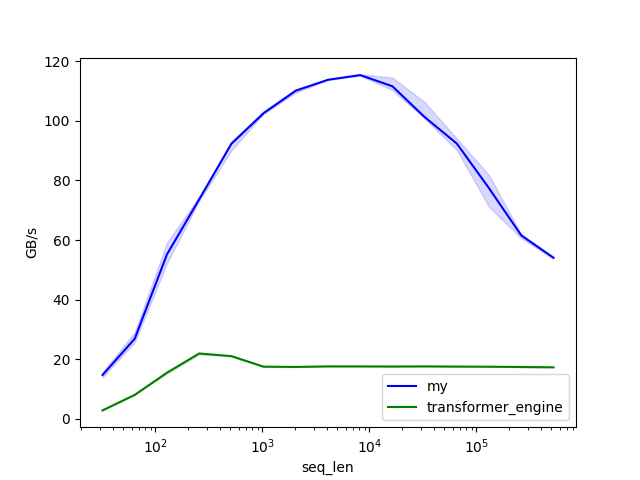
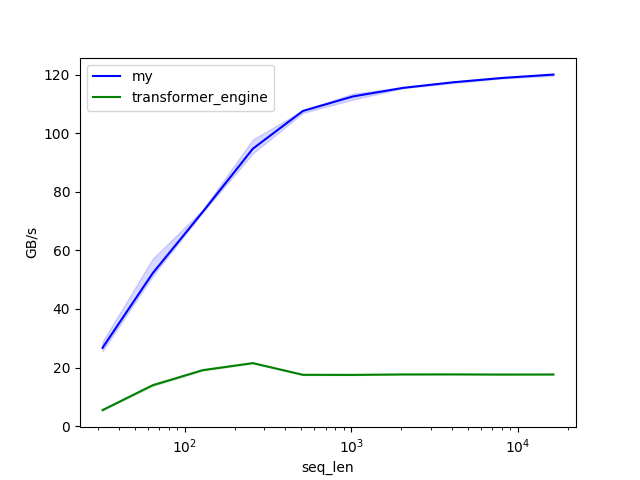
update perf

diff --git a/RoPE/perf.py b/RoPE/perf.py
@@ -9,7 +9,7 @@ import os
 @triton.testing.perf_report(
     triton.testing.Benchmark(
         x_names=['seq_len'],
-        x_vals=[2**i for i in range(5, 20, 1)],
+        x_vals=[2**i for i in range(5, 15, 1)],
         x_log=True,                                 # logarithmic in x axis
         line_arg = 'provider', 
         line_vals = ['my', 'base'],
@@ -17,7 +17,7 @@ import os
         styles=[('blue', '-'), ('green','-')],
         ylabel = 'GB/s',
         plot_name = 'RoPE forward() perf',
-        args = {'batch':1, 'n_head':8, 'dim_head':128}, 
+        args = {'batch':1, 'n_head':8, 'dim_head':256}, 
     )) 
 def benchmark(seq_len, batch, n_head, dim_head, provider) :
     
